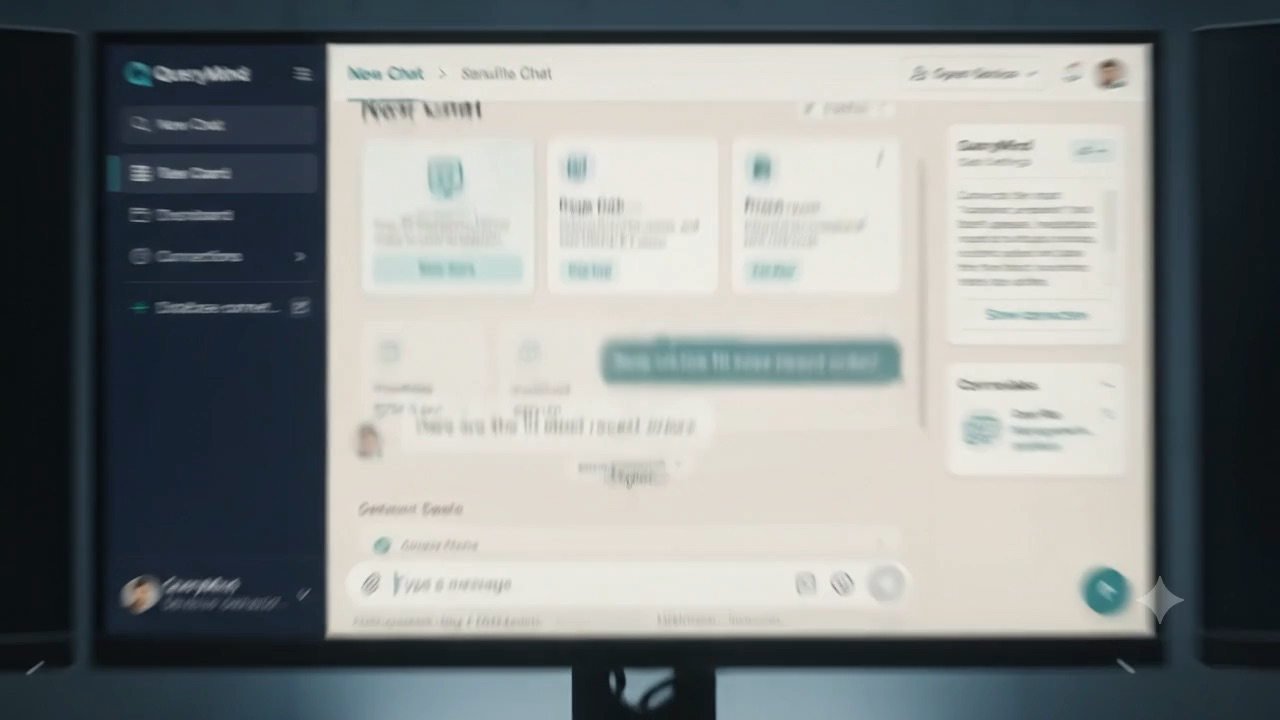
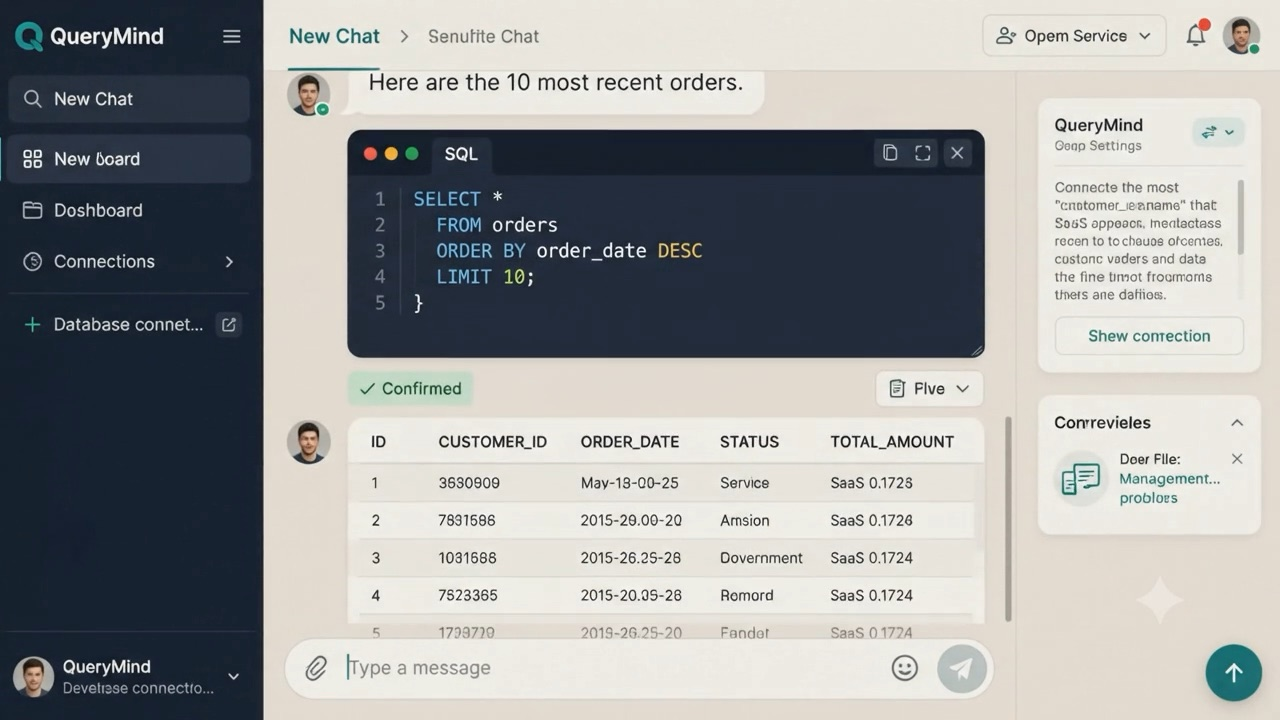
Improve landing: better video poster, stable typewriter, GitHub link, updated features

diff --git a/frontend/src/components/AuthPanel.tsx b/frontend/src/components/AuthPanel.tsx
@@ -1,5 +1,5 @@
 import { FormEvent, useEffect, useState } from "react";
-import { ArrowRight, Database, Github, Loader2, LogIn, ShieldCheck, Sparkles, UserPlus } from "lucide-react";
+import { ArrowRight, BarChart3, Database, FileText, Github, Loader2, LogIn, MessageCircle, ShieldCheck, Sparkles, UserPlus } from "lucide-react";
 import { apiRequest } from "../lib/api";
 import { LogoMark } from "./LogoMark";
 
@@ -59,7 +59,9 @@ export function AuthPanel({ onToken }: Props) {
           </nav>
           <a
             className="hidden items-center gap-2 rounded-xl border border-navy/15 bg-white px-4 py-2 text-sm font-semibold text-navy shadow-sm transition hover:-translate-y-0.5 hover:shadow sm:inline-flex"
-            href="#get-started"
+            href="https://github.com/aswin6373/db_qu"
+            rel="noreferrer"
+            target="_blank"
           >
             <Github size={16} /> Star us
             <span className="rounded-md bg-teal-soft px-1.5 py-0.5 text-xs font-bold text-teal-dark">beta</span>
@@ -90,7 +92,7 @@ export function AuthPanel({ onToken }: Props) {
               The <TypewriterWord /> SQL Agent
             </h1>
             <p className="mx-auto mt-5 max-w-xl text-lg font-medium text-navy-soft lg:mx-0">
-              Natural language <Dot /> Validated SQL <Dot /> Guarded writes <Dot /> Schema-aware
+              Natural language <Dot /> Validated SQL <Dot /> Guarded writes <Dot /> WhatsApp <Dot /> AI charts
             </p>
             <p className="mx-auto mt-3 max-w-xl text-[15px] leading-7 text-navy-soft/80 lg:mx-0">
               Let your team query the company database in plain English — every statement reviewed, every write
@@ -121,10 +123,13 @@ export function AuthPanel({ onToken }: Props) {
             </div>
 
             {/* Feature strip */}
-            <div className="mt-12 grid gap-3 sm:grid-cols-3" id="features">
-              <LandingFeature icon={<ShieldCheck size={17} />} title="Validated SQL" text="Every statement parsed and checked against your live schema." />
+            <div className="mt-12 grid gap-3 sm:grid-cols-2 lg:grid-cols-3" id="features">
+              <LandingFeature icon={<ShieldCheck size={17} />} title="Validated SQL" text="Every statement parsed and checked against your live schema before it runs." />
+              <LandingFeature icon={<MessageCircle size={17} />} title="WhatsApp built in" text="Pair your WhatsApp and ask from your phone — answers and charts come back as images." />
+              <LandingFeature icon={<BarChart3 size={17} />} title="AI-chosen charts" text="Ask for a trend or a total — QueryMind picks the right visualization automatically." />
+              <LandingFeature icon={<FileText size={17} />} title="PDF reports" text="Export any answer as a polished PDF report your team can share." />
               <LandingFeature icon={<Database size={17} />} title="Encrypted credentials" text="Passwords sealed with Fernet encryption before storage." />
-              <LandingFeature icon={<Sparkles size={17} />} title="Confirm-before-write" text="INSERT, UPDATE, DELETE wait for your explicit approval." />
+              <LandingFeature icon={<Sparkles size={17} />} title="Confirm-before-write" text="INSERT, UPDATE, DELETE wait for your explicit approval — always." />
             </div>
           </section>
 
@@ -216,7 +221,7 @@ export function AuthPanel({ onToken }: Props) {
               {[
                 { step: "01", title: "Connect", text: "Add your MySQL or PostgreSQL host and credentials. We test the connection and map your full schema." },
                 { step: "02", title: "Ask", text: "Type what you want to know. The AI writes one precise SQL statement for your schema." },
-                { step: "03", title: "Review & run", text: "Reads execute instantly. Writes pause for your confirmation — always." }
+                { step: "03", title: "Review & run", text: "Reads execute instantly. Writes pause for your confirmation — and every change lands in the audit log." }
               ].map((item) => (
                 <div className="card-landing p-6" key={item.step}>
                   <span className="font-mono text-sm font-bold text-teal">{item.step}</span>
@@ -260,7 +265,7 @@ export function AuthPanel({ onToken }: Props) {
               are encrypted at rest. Every query is logged for your audit trail.
             </p>
             <div className="mx-auto mt-8 flex max-w-2xl flex-wrap items-center justify-center gap-3">
-              {["SQL injection guarded", "Multi-statement blocked", "Org-level isolation", "Fernet encryption", "Full audit log"].map((chip) => (
+              {["SQL injection guarded", "Multi-statement blocked", "DROP & ALTER blocked", "Org-level isolation", "Fernet encryption", "Full audit log", "WhatsApp device pairing"].map((chip) => (
                 <span className="rounded-full border border-white/15 bg-white/5 px-4 py-2 text-sm font-medium text-slate-200" key={chip}>
                   {chip}
                 </span>
@@ -338,9 +343,15 @@ function TypewriterWord() {
   }, [text, isDeleting, wordIndex]);
 
   return (
-    <span className="relative inline-block text-teal">
-      {text}
-      <span className="ml-0.5 inline-block h-[0.85em] w-[3px] animate-caret bg-teal align-[-0.08em]" />
+    <span className="inline-grid text-teal">
+      <span aria-hidden="true" className="invisible col-start-1 row-start-1">
+        {TYPEWRITER_WORDS.reduce((a, b) => (a.length >= b.length ? a : b))}
+      </span>
+      <span aria-hidden="true" className="col-start-1 row-start-1 justify-self-start">
+        {text}
+        <span className="ml-0.5 inline-block h-[0.85em] w-[3px] animate-caret bg-teal align-[-0.08em]" />
+      </span>
+      <span className="sr-only">{TYPEWRITER_WORDS[wordIndex]}</span>
     </span>
   );
 }
